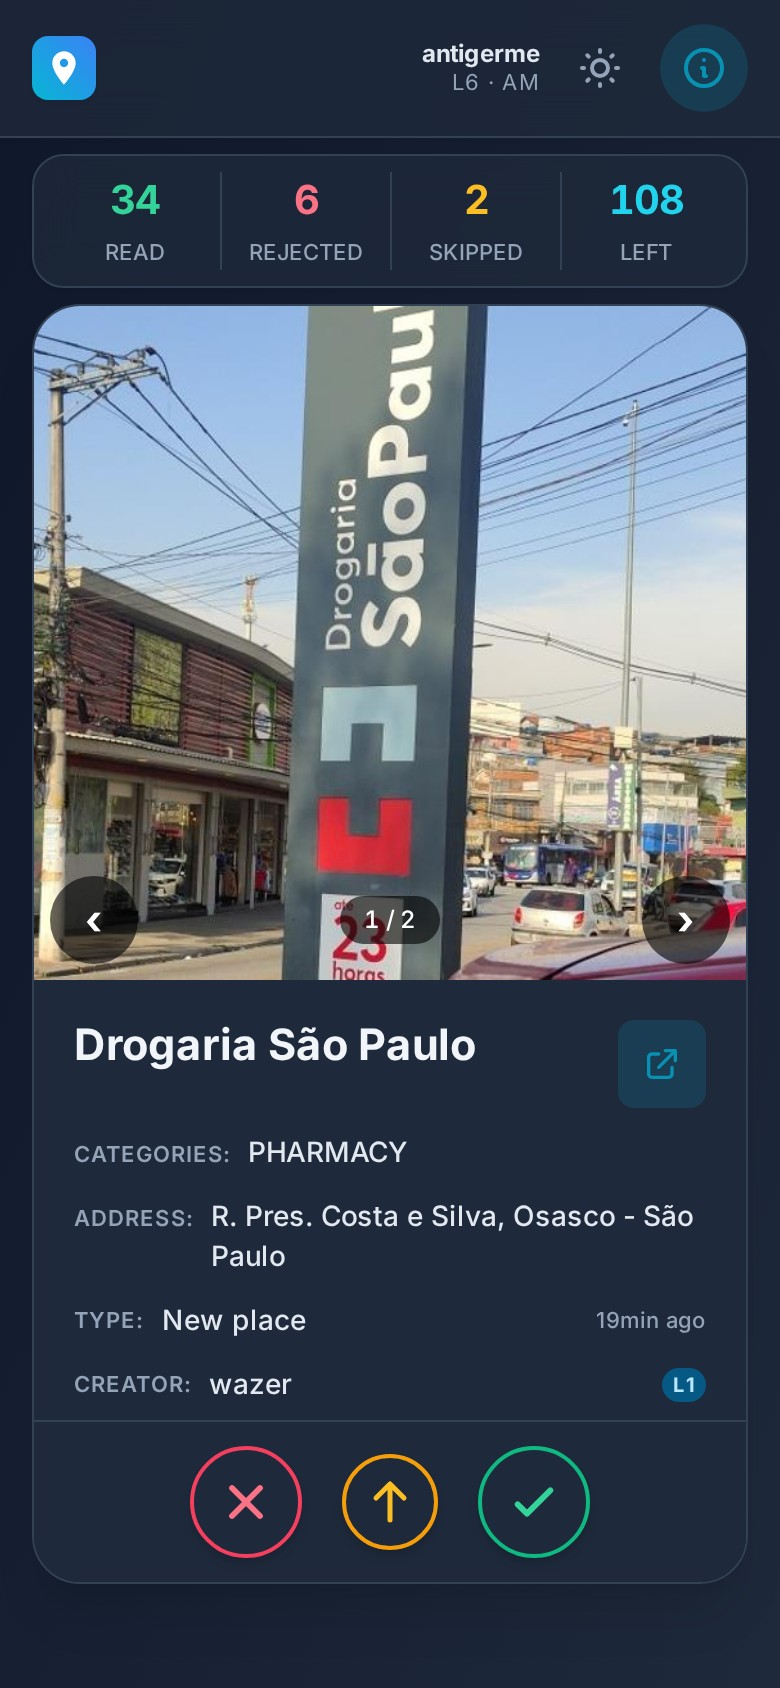
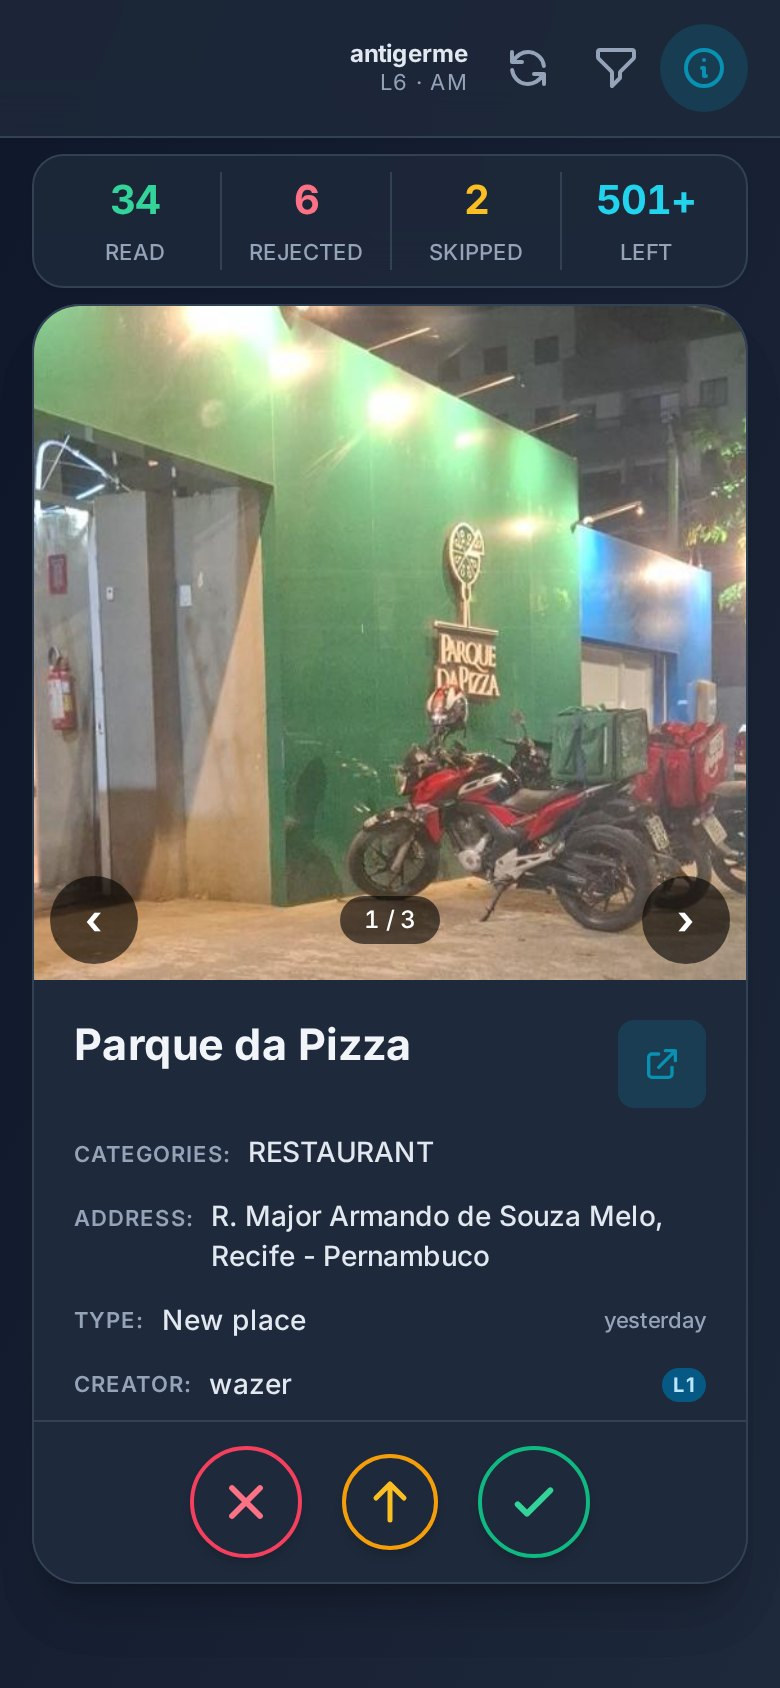
v2026.10.26-03: as capturas da instalação refeitas com a tela de hoje
As imagens que o Chrome mostra ao oferecer a instalação (e as três miniaturas
da tela de entrada, que saem delas) eram de agosto (#120): botão de tema no
cabeçalho, sem o ↻ nem o funil, e o diálogo antigo de «Filtros e Preferências»
com três abas.

Refeitas pelo mesmo método do #120: a fila REAL lida só pra leitura com a conta
do dono, no servidor local (sem o «Manter conectado» e com o estado num
diretório temporário apagado no fim; a sessão saiu pelo «Sair»), em inglês (o
`screenshots` do manifest não é localizável), no tema escuro, a 390×844 com DPR
2 (780×1688) e a 1280×720. O autor de cada pedido aparece como «wazer» e a foto
de perfil do dono foi bloqueada (o app cai no estado «sem foto»). Escolhidas
entre 27 candidatas, sem rosto, sem placa legível e sem telefone de pessoa.

O label da captura dos Filtros descreve o diálogo novo. Os tamanhos são os de
antes, então o manifest e as miniaturas (144×311, < 15 KB) seguem com as mesmas
medidas, e os guards de tamanho, proporção e peso passam.

Claude-Session: https://claude.ai/code/session_01HdyEtjvBJHWqMgFTt4gHJq

diff --git a/service-worker.js b/service-worker.js
@@ -1,7 +1,7 @@
 // CACHE_NAME = 'waze-places-' + serial de zona DNS (YYYYMMDDnn). js/version.js é a
 // FONTE ÚNICA do serial; a auditoria (test/version.test.mjs) trava a paridade/formato.
 // Serial novo = shell novo = ciclo de atualização. Bump = mexer AQUI e no version.js.
-const CACHE_NAME = 'waze-places-2026102602';
+const CACHE_NAME = 'waze-places-2026102603';
 // Cache dos tiles provisionados. Nome PRÓPRIO e fora do bump de propósito:
 // ver a nota no `activate`.
 const TILES_CACHE = 'waze-places-tiles';

diff --git a/js/min/version.js b/js/min/version.js
@@ -1,1 +1,1 @@
-const APP_VERSION="2026102602";function verLabel(i){const e=String(i);return`${e.slice(0,4)}.${e.slice(4,6)}.${e.slice(6,8)}-${e.slice(8,10)}`}typeof window<"u"&&(window.APP_VERSION=APP_VERSION,window.verLabel=verLabel);
+const APP_VERSION="2026102603";function verLabel(i){const e=String(i);return`${e.slice(0,4)}.${e.slice(4,6)}.${e.slice(6,8)}-${e.slice(8,10)}`}typeof window<"u"&&(window.APP_VERSION=APP_VERSION,window.verLabel=verLabel);

diff --git a/js/version.js b/js/version.js
@@ -4,7 +4,7 @@
 // FONTE ÚNICA: o CACHE_NAME do service-worker.js usa ESTE serial ('waze-places-' +
 // APP_VERSION) e a auditoria (test/version.test.mjs) trava a paridade/formato —
 // bump de versão = mexer AQUI e no service-worker.js juntos.
-const APP_VERSION = '2026102602';
+const APP_VERSION = '2026102603';
 
 // '2026071801' → '2026.07.18-01' (pra gente ler; o serial cru fica pras máquinas)
 function verLabel(v) {

diff --git a/CHANGELOG.md b/CHANGELOG.md
@@ -8,6 +8,13 @@ Formato inspirado no [Keep a Changelog](https://keepachangelog.com/pt-BR/1.1.0/)
 
 ---
 
+## v2026.10.26-03
+**As capturas da instalação foram refeitas com a tela de hoje.** São as imagens que o Chrome mostra quando oferece instalar o app, e as três miniaturas da tela de entrada saem delas. As de antes eram de agosto: mostravam o botão de tema, um cabeçalho sem ↻ nem funil e o diálogo antigo de «Filtros e Preferências» com três abas.
+
+- **O mesmo jeito de antes:** a fila real, lida só pra leitura com a conta do dono, em inglês (o Chrome não deixa variar as capturas por idioma), no tema escuro, num celular de 390 px e no computador. O nome de quem mandou cada pedido aparece como «wazer», e a foto de perfil do dono ficou de fora. Escolhidas sem rosto, sem placa legível e sem telefone de pessoa.
+- **As seis telas:** um local novo com foto, uma foto nova ao lado das que o local já tem, o mapa com o antes e o depois, as mudanças propostas, os Filtros novos (os tipos de pedido em chips, por Local e Foto) e o app no computador.
+- **Num celular de até 400 px o logo não aparece no cabeçalho** quando a pessoa está logada (é o espaço do nome, desde a v2026.10.20-03), e as capturas mostram isso como é.
+
 ## v2026.10.26-02
 **O botão de tema (☀/🌙) saiu do cabeçalho** (decisão do dono, com o mockup e a medida na mesa). O tema agora se escolhe só nas Preferências, na linha **Tema** (Auto · Claro · Escuro), que chegou na v2026.10.26-01. O botão era o que tirava o app do «Auto» sem avisar: um toque fixava claro ou escuro, e o app parava de seguir o aparelho.
 
